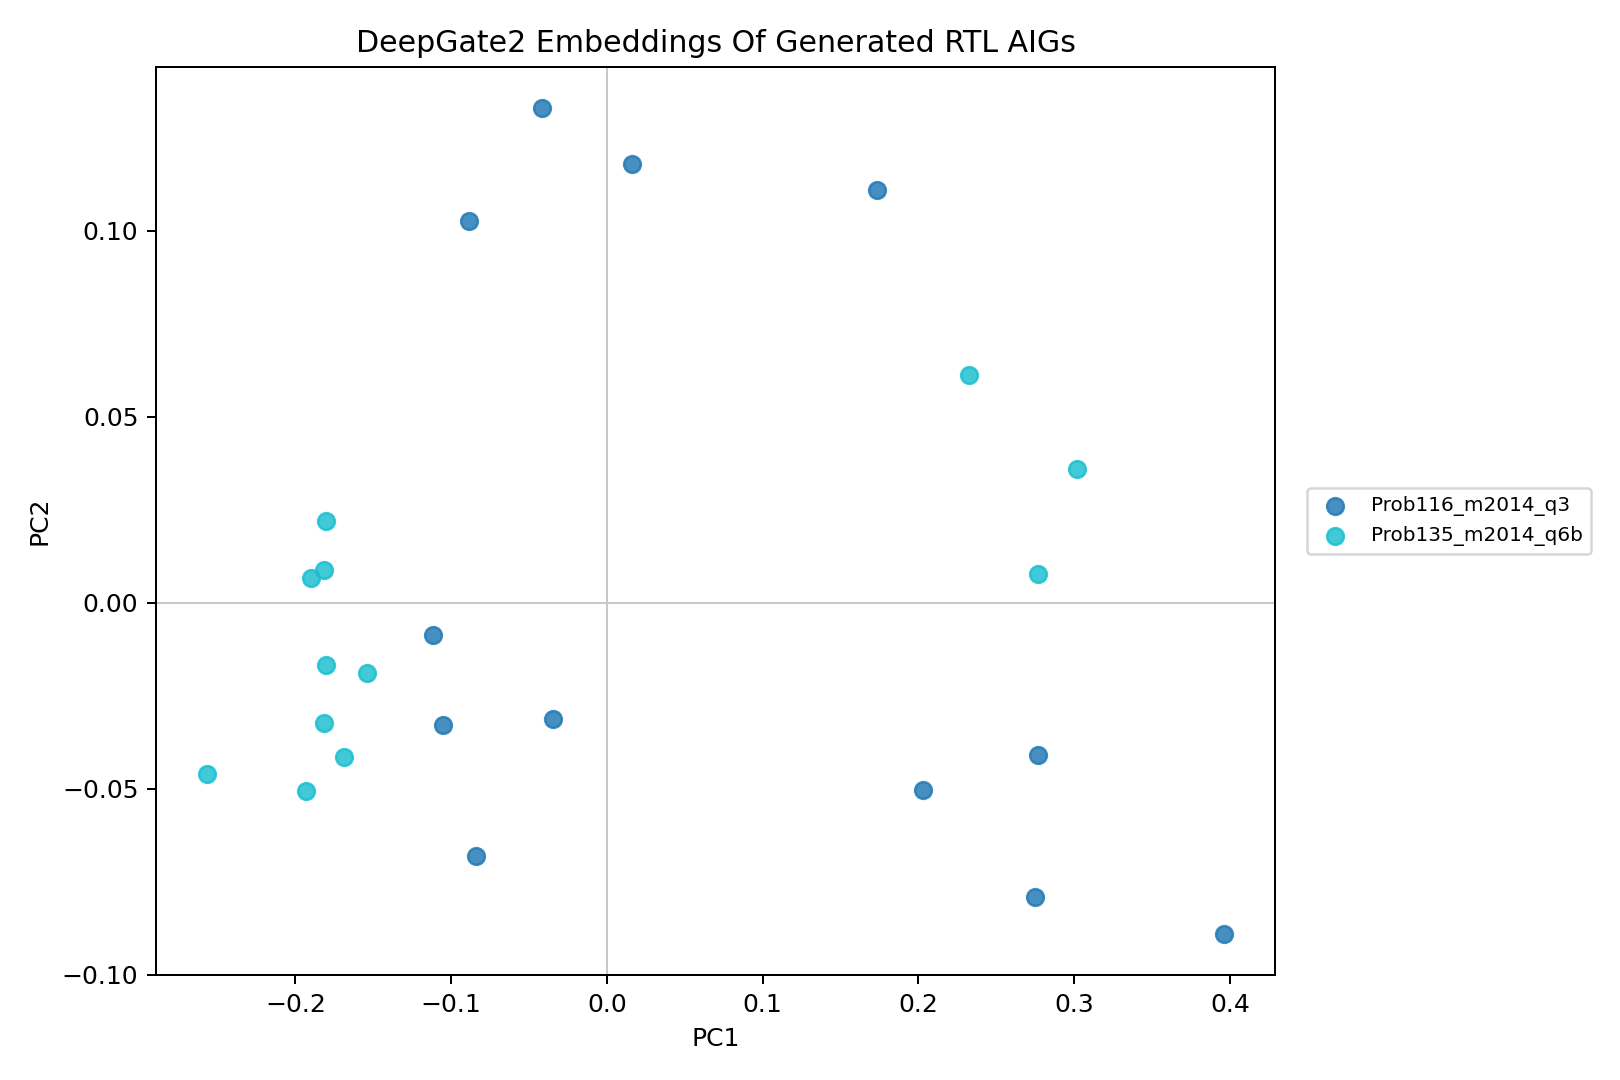
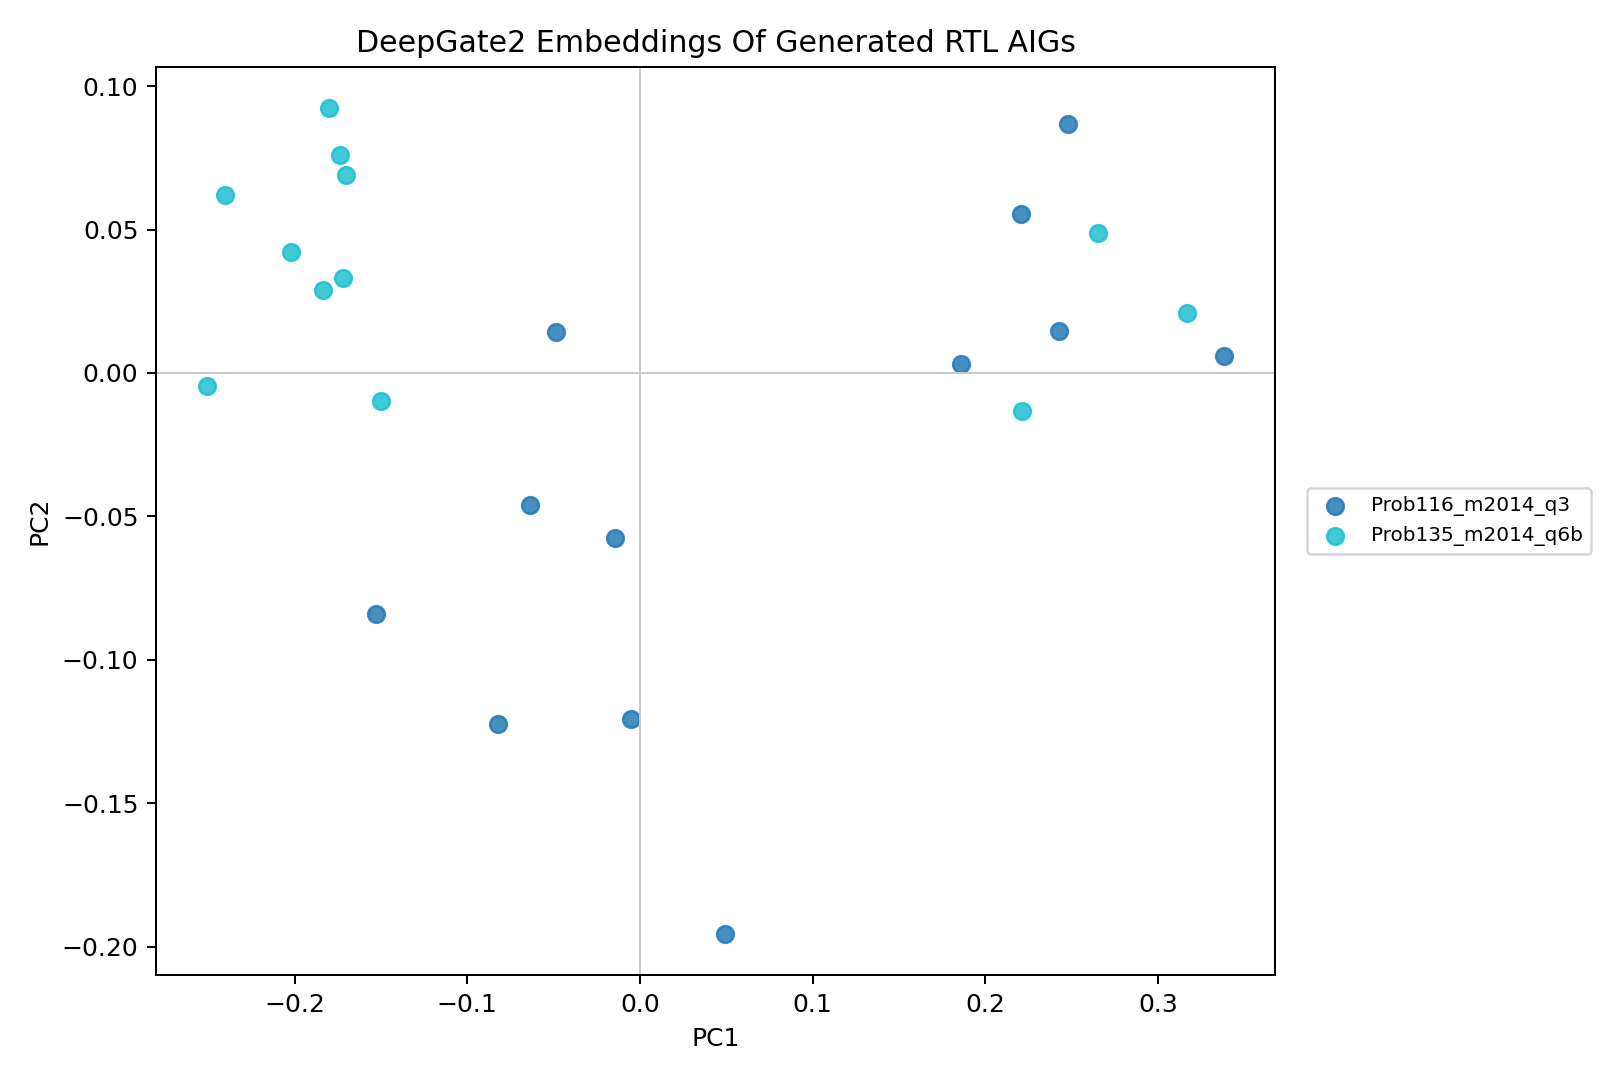
docs(qd): Record DeepGate transition block
Add the transition AIG state-abstraction probe after the bounded
latch-free DeepGate bridge improved embedding collapse but not coverage.

Record that sequential export improves, while the official DeepGate
parser still blocks in topological sorting before this lane is ready for
live RTLLM spending.

diff --git a/docs/journal_features/revamp_history/20260622_010615_KST_useful_bd_push/preliminary_planning/20260625_deepgate_generated_bridge_probe/tools/run_deepgate_generated_bridge_probe.py b/docs/journal_features/revamp_history/20260622_010615_KST_useful_bd_push/preliminary_planning/20260625_deepgate_generated_bridge_probe/tools/run_deepgate_generated_bridge_probe.py
@@ -25,6 +25,7 @@ def parse_args() -> argparse.Namespace:
     parser.add_argument("--package-dir", required=True, type=Path)
     parser.add_argument("--max-per-backend-problem", required=True, type=int)
     parser.add_argument("--max-aig-vars", required=True, type=int)
+    parser.add_argument("--state-policy", required=True, choices=["latch_free", "transition"])
     return parser.parse_args()
 
 
@@ -45,18 +46,58 @@ def collect_candidates(live_root: Path, max_per_backend_problem: int) -> list[Pa
     return paths
 
 
-def export_aig(code_path: Path, aig_path: Path) -> tuple[str, str]:
+def yosys_script(code_path: Path, aig_path: Path, state_policy: str) -> str:
+    if state_policy == "latch_free":
+        return (
+            f"read_verilog -sv {code_path}; hierarchy -auto-top; proc; "
+            f"flatten; opt; setundef -zero; techmap; opt; aigmap; "
+            f"write_aiger -ascii {aig_path}"
+        )
+    if state_policy == "transition":
+        return (
+            f"read_verilog -sv {code_path}; hierarchy -auto-top; proc; "
+            f"async2sync; clk2fflogic; flatten; opt; setundef -zero; "
+            f"techmap; opt; aigmap; write_aiger -ascii {aig_path}"
+        )
+    raise AssertionError(state_policy)
+
+
+def abstract_latches_as_transition(aig_path: Path) -> None:
+    lines = aig_path.read_text().splitlines()
+    header = lines[0].split()
+    assert header[0] == "aag"
+    variables, inputs, latches, outputs, ands = map(int, header[1:6])
+    input_lines = lines[1 : 1 + inputs]
+    latch_lines = lines[1 + inputs : 1 + inputs + latches]
+    output_lines = lines[1 + inputs + latches : 1 + inputs + latches + outputs]
+    and_lines = lines[1 + inputs + latches + outputs : 1 + inputs + latches + outputs + ands]
+    state_inputs = [line.split()[0] for line in latch_lines]
+    next_outputs = [line.split()[1] for line in latch_lines]
+    aig_path.write_text(
+        "\n".join(
+            [
+                f"aag {variables} {inputs + latches} 0 {outputs + latches} {ands}",
+                *input_lines,
+                *state_inputs,
+                *output_lines,
+                *next_outputs,
+                *and_lines,
+            ]
+        )
+        + "\n"
+    )
+
+
+def export_aig(code_path: Path, aig_path: Path, state_policy: str) -> tuple[str, str]:
     command = [
         "yosys",
         "-q",
         "-p",
-        (
-            f"read_verilog -sv {code_path}; hierarchy -auto-top; proc; "
-            f"flatten; opt; setundef -zero; techmap; opt; aigmap; "
-            f"write_aiger -ascii {aig_path}"
-        ),
+        yosys_script(code_path, aig_path, state_policy),
     ]
     result = subprocess.run(command, check=False, capture_output=True, text=True, timeout=60)
+    if result.returncode == 0 and state_policy == "transition":
+        abstract_latches_as_transition(aig_path)
     return ("exported", result.stderr[-600:]) if result.returncode == 0 else ("export_failed", result.stderr[-600:])
 
 
@@ -179,7 +220,7 @@ def main() -> None:
     for index, code_path in enumerate(collect_candidates(args.live_root, args.max_per_backend_problem)):
         row = metadata(code_path, args.live_root)
         aig_path = args.output_dir / "aigs" / f"candidate_{index:04d}.aag"
-        status, stderr_tail = export_aig(code_path, aig_path)
+        status, stderr_tail = export_aig(code_path, aig_path, args.state_policy)
         row.update({"aig_path": str(aig_path), "status": status, "stderr_tail": stderr_tail})
         if status == "exported":
             header = read_aig_header(aig_path)
@@ -201,6 +242,7 @@ def main() -> None:
         "output_dir": str(args.output_dir),
         "max_per_backend_problem": args.max_per_backend_problem,
         "max_aig_vars": args.max_aig_vars,
+        "state_policy": args.state_policy,
         "candidate_count": len(rows),
         "export_success_count": sum(row["status"] != "export_failed" for row in rows),
         "embedded_problem_count": len({row["problem"] for row in embed_ready}),

diff --git a/docs/journal_features/revamp_history/20260622_010615_KST_useful_bd_push/preliminary_planning/20260625_deepgate_transition_bridge_probe/deepgate_transition_bridge_report.md b/docs/journal_features/revamp_history/20260622_010615_KST_useful_bd_push/preliminary_planning/20260625_deepgate_transition_bridge_probe/deepgate_transition_bridge_report.md
@@ -1,0 +1,53 @@
+# DeepGate Transition Bridge Report
+
+## Answer
+
+The transition abstraction improves AIG exportability for sequential generated
+RTL, but it does not yet produce a usable DeepGate embedding corpus. The
+official DeepGate parser remains the blocker.
+
+## Method
+
+For latch-bearing AIGs, the transform rewrites:
+
+- original primary inputs plus latch state literals as new primary inputs;
+- original primary outputs plus latch next-state literals as new outputs;
+- latch count to zero;
+- existing AND definitions unchanged.
+
+This represents one-cycle transition logic. It is an honest hardware-native
+descriptor candidate because it exposes the combinational logic around state
+instead of silently dropping flip-flops.
+
+## Header Smoke
+
+| Problem | Original AAG | Transition AAG | Read |
+| --- | --- | --- | --- |
+| `Prob015_multi_pipe_8bit` | `aag 1255 19 69 17 1167` | `aag 1255 88 0 86 1167` | Export fixed, still too large. |
+| `Prob024_fsm` | `aag 79 3 9 1 67` | `aag 79 12 0 10 67` | Bounded candidate. |
+| `Prob041_traffic_light` | `aag 542 3 73 11 466` | `aag 542 76 0 84 466` | Export fixed, parser slow at medium size. |
+| `Prob049_signal_generator` | `aag 163 2 13 5 148` | `aag 163 15 0 18 148` | Bounded candidate. |
+| `Prob153_gshare` | `aag 10479 27 645 8 9807` | `aag 10479 672 0 653 9807` | Too large. |
+
+## Run Outcome
+
+Three transition runs were attempted:
+
+1. `--max-aig-vars 700 --max-per-backend-problem 3`;
+2. `--max-aig-vars 300 --max-per-backend-problem 3`;
+3. `--max-aig-vars 200 --max-per-backend-problem 1`.
+
+All were manually interrupted after the official DeepGate parser entered its
+topological-sort path for generated transition AIGs. The bottleneck is not the
+pretrained model load and not Yosys export; it is parser/order computation.
+
+## Decision
+
+Do not promote transition DeepGate to a live QD arm. The next valid DeepGate
+bridge should be one of:
+
+- cone-level extraction around state and output signals;
+- a faster AIG-to-DeepGate graph converter that bypasses the current parser
+  bottleneck;
+- a compact transition summary that compares DeepGate embeddings against
+  simple AIG statistics before live spending.

diff --git a/docs/journal_features/revamp_history/20260622_010615_KST_useful_bd_push/preliminary_planning/20260625_pretrained_encoder_bridge_validation/encoder_bridge_validation_report.md b/docs/journal_features/revamp_history/20260622_010615_KST_useful_bd_push/preliminary_planning/20260625_pretrained_encoder_bridge_validation/encoder_bridge_validation_report.md
@@ -33,7 +33,7 @@ not answer the pretrained-encoder question.
 | Candidate | Status | Evidence | Decision |
 | --- | --- | --- | --- |
 | Qwen3 canonical RTL | Live-screened, not promoted | Current model smoke passes on CUDA with `4x1024` nonconstant toy RTL embeddings. The generated-candidate probe produced `540 x 1024` embeddings over `424` unique canonical RTL hashes. The matched `8x5` screen preserved coverage but lost mean HV: `0.1108` versus classic `0.1406`. | Do not promote exact `qwen_canonical_rtl_pca3` as-is. |
-| DeepGate / DeepGate2 | Model valid, bridge partially unblocked | Official python-deepgate pretrained path works on shipped AIG examples. The new generated bridge probe embeds `24` bounded AIG rows with pairwise cosine mean `0.9315`, all four backends represented, and `2/8` problems covered. | Fix sequential and large-AIG coverage before live spend. |
+| DeepGate / DeepGate2 | Model valid, bridge partially unblocked | Official python-deepgate pretrained path works on shipped AIG examples. The generated bridge probe embeds `24` bounded AIG rows with pairwise cosine mean `0.9318`, all four backends represented, and `2/8` problems covered. The transition smoke improves sequential AIG export but blocks in parser topological sorting. | Fix sequential cone extraction or parser scalability before live spend. |
 | MasterRTL pretrained heads | Model artifacts valid, generated leaves blocked | XGBoost/RF artifacts load in the isolated env. T77 generated-candidate Area-head leaves collapsed to one prediction and one leaf row. | Do not use Area leaves as a BD. Revisit RF/timing only after feature parity. |
 | AURORA-style learned BD | Not pretrained | Raw implementation features had `+1.06%` replay HV, but compressed AURORA/PCA/RFF bottlenecks lost. | Use only as a custom learned feature lane. |
 | T36 bounded front graph | Encoder-like replay candidate | T36 replay had `+4.04%` HV over lexical and front-hit recovery, but exact T58 live conversion failed. | Redesign live successor; do not rerun exact T58. |

diff --git a/docs/journal_features/revamp_history/20260622_010615_KST_useful_bd_push/useful_bd_push_implementation_history.md b/docs/journal_features/revamp_history/20260622_010615_KST_useful_bd_push/useful_bd_push_implementation_history.md
@@ -4856,7 +4856,7 @@ Placeholders are acceptable in the scaffold commit, but not at goal completion.
 - Sampled `96` valid-PPA generated candidate directories, exported `36` AIGs,
   skipped `12` oversized AIGs, and embedded `24` bounded latch-free AIGs.
 - The generated embeddings were no longer trivially collapsed:
-  pairwise cosine mean `0.9315`, min `0.7700`, max `0.9932`.
+  pairwise cosine mean `0.9318`, min `0.8124`, max `0.9904`.
 - The embedded rows covered all four screened backends but only two problems:
   `Prob116_m2014_q3` and `Prob135_m2014_q6b`.
 - Visual inspection of `figures/deepgate_embedding_pca.png` confirmed that the
@@ -4865,3 +4865,21 @@ Placeholders are acceptable in the scaffold commit, but not at goal completion.
 - Decision: DeepGate is partially unblocked as a pretrained encoder bridge,
   but it is not live-spend-ready. Fix sequential and large-AIG coverage before
   adding a live QD arm.
+
+## 2026-06-25T18:45:00Z - DeepGate Transition Bridge Escalation
+
+- Created preliminary planning package:
+  `preliminary_planning/20260625_deepgate_transition_bridge_probe/`.
+- Added explicit `--state-policy` support to the DeepGate bridge probe:
+  `latch_free` preserves the previous policy, while `transition` uses
+  `clk2fflogic` and rewrites latch state as primary inputs plus next-state
+  outputs.
+- Header smoke showed improved sequential export coverage:
+  `Prob024_fsm` became `aag 79 12 0 10 67`, and
+  `Prob049_signal_generator` became `aag 163 15 0 18 148`.
+- Three transition embedding runs were attempted at caps of `700`, `300`, and
+  `200` variables. Each was manually interrupted after the official DeepGate
+  parser remained in `return_order_info` / `top_sort`.
+- Decision: full-design transition abstraction is methodologically plausible
+  but not spend-ready. The next DeepGate bridge needs cone-level extraction or
+  a faster AIG-to-DeepGate graph converter before any live QD arm.

diff --git a/docs/journal_features/revamp_history/20260622_010615_KST_useful_bd_push/preliminary_planning/README.md b/docs/journal_features/revamp_history/20260622_010615_KST_useful_bd_push/preliminary_planning/README.md
@@ -11,6 +11,7 @@ configurations before spending full RTLLM budget.
 | `20260625_pretrained_encoder_bridge_validation/` | Validate whether pretrained and encoder-like lanes are real enough to spend live RTLLM budget. | Active; Qwen3 is the next live-hook candidate |
 | `20260625_qwen_live_screen_probe/` | Probe Qwen3 canonical-RTL embeddings and bridge them into a live QD descriptor hook. | Probe, smoke, and matched screen complete; not promoted as-is |
 | `20260625_deepgate_generated_bridge_probe/` | Re-test official DeepGate2 embeddings on generated RTL-derived AIGs after Qwen lost the live screen. | Partially unblocked; embeddings are nonconstant on 24 rows, but only 2/8 problems cover |
+| `20260625_deepgate_transition_bridge_probe/` | Test state-as-input transition AIG abstraction for sequential DeepGate coverage. | Export coverage improves, but official parser remains too slow |
 
 ## Current Rule
 
@@ -31,5 +32,10 @@ Its nearest-neighbor graph is still almost entirely same-problem. The matched
 
 The DeepGate generated bridge probe now shows a stronger diagnostic signal than
 the old three-sample collapsed probe: `24` generated rows embed with pairwise
-cosine mean `0.9315`. It is still not spend-ready because the bounded
+cosine mean `0.9318`. It is still not spend-ready because the bounded
 latch-free AIG policy covers only `2/8` screening problems.
+
+Transition abstraction can rewrite sequential AIGs into latch-free one-cycle
+transition logic, but full-design transition AIGs still hit the official
+DeepGate parser's topological-sort bottleneck. The next DeepGate escalation
+should use cone extraction or a faster graph converter.

diff --git a/docs/journal_features/revamp_history/20260622_010615_KST_useful_bd_push/preliminary_planning/20260625_deepgate_generated_bridge_probe/deepgate_generated_bridge_report.md b/docs/journal_features/revamp_history/20260622_010615_KST_useful_bd_push/preliminary_planning/20260625_deepgate_generated_bridge_probe/deepgate_generated_bridge_report.md
@@ -6,8 +6,8 @@ The DeepGate lane is not ready for the final RTLLM comparison, but it should
 not be discarded. This probe fixed the most severe old symptom: the previous
 generated-candidate run produced only three embeddings with mean pairwise
 cosine near `0.9999`. The new official DeepGate2 bridge produced `24`
-generated-candidate embeddings with mean pairwise cosine `0.9315` and minimum
-cosine `0.7700`.
+generated-candidate embeddings with mean pairwise cosine `0.9318` and minimum
+cosine `0.8124`.
 
 That is enough to say the pretrained model can produce nontrivial signals on
 some generated RTL-derived AIGs. It is not enough to call DeepGate spend-ready,
@@ -86,6 +86,11 @@ pre-register one of these bridge fixes:
    `Prob045_alu`-scale designs.
 3. Compare pooled DeepGate embeddings against simple AIG statistics on the
    same generated rows to confirm the pretrained model adds signal beyond size.
+
+The follow-up transition-abstraction smoke improved sequential AIG export
+headers but still blocked in the official parser's topological-sort path. That
+reinforces cone extraction or parser replacement as the next DeepGate bridge
+step.
 
 Until one of those passes on at least most of the eight screening problems,
 DeepGate remains a bridge-required lane rather than a final RTLLM arm.

diff --git a/docs/journal_features/revamp_history/20260622_010615_KST_useful_bd_push/preliminary_planning/20260625_deepgate_transition_bridge_probe/commands/run_deepgate_transition_bridge_probe.md b/docs/journal_features/revamp_history/20260622_010615_KST_useful_bd_push/preliminary_planning/20260625_deepgate_transition_bridge_probe/commands/run_deepgate_transition_bridge_probe.md
@@ -1,0 +1,25 @@
+# DeepGate Transition Bridge Commands
+
+Run from `/workspace`.
+
+## Header Smoke
+
+The header smoke used Yosys with `clk2fflogic`, then converted latch lines into
+state inputs and next-state outputs.
+
+## Full Probe Attempts
+
+```bash
+/workspace/exp/diversity_check/encoder_envs/deepgate3_probe/bin/python \
+  docs/journal_features/revamp_history/20260622_010615_KST_useful_bd_push/preliminary_planning/20260625_deepgate_generated_bridge_probe/tools/run_deepgate_generated_bridge_probe.py \
+  --live-root exp/useful_bd_push/prelim_encoder_config_screen_20260625_134902_UTC/live \
+  --output-dir exp/useful_bd_push/deepgate_transition_bridge_probe_20260625_183300_UTC \
+  --package-dir docs/journal_features/revamp_history/20260622_010615_KST_useful_bd_push/preliminary_planning/20260625_deepgate_transition_bridge_probe \
+  --max-per-backend-problem 3 \
+  --max-aig-vars 700 \
+  --state-policy transition
+```
+
+The `700`-variable run was interrupted after the parser remained in
+topological sorting. The same happened with `300` variables and then with
+`200` variables plus one candidate per backend/problem.

diff --git a/docs/journal_features/revamp_history/20260622_010615_KST_useful_bd_push/preliminary_planning/20260625_deepgate_transition_bridge_probe/README.md b/docs/journal_features/revamp_history/20260622_010615_KST_useful_bd_push/preliminary_planning/20260625_deepgate_transition_bridge_probe/README.md
@@ -1,0 +1,26 @@
+# DeepGate Transition Bridge Probe
+
+## Verdict
+
+Transition abstraction is a plausible DeepGate bridge fix, but the official
+`python-deepgate` parser is too slow on the generated transition AIGs we need.
+Do not spend live RTLLM budget on this lane yet.
+
+The transform converts latch-bearing AIGs into combinational transition logic
+by treating register state as extra inputs and next-state functions as extra
+outputs. It improves export coverage for sequential designs, but the current
+full-design transition AIGs still hit the parser topological-sort bottleneck.
+
+## Contents
+
+| Path | Purpose |
+| --- | --- |
+| `deepgate_transition_bridge_report.md` | Main result and decision. |
+| `commands/run_deepgate_transition_bridge_probe.md` | Commands attempted. |
+| `tables/transition_header_smoke.csv` | Header-level evidence for the state abstraction. |
+| `logs/transition_smoke_log.md` | Manual run log and interruption rationale. |
+
+## Decision
+
+The next DeepGate attempt should not be another full-design transition run.
+Use cone-level extraction or replace the parser/order computation first.

diff --git a/docs/journal_features/revamp_history/20260622_010615_KST_useful_bd_push/preliminary_planning/20260625_encoder_config_screening/current_encoder_assessment.md b/docs/journal_features/revamp_history/20260622_010615_KST_useful_bd_push/preliminary_planning/20260625_encoder_config_screening/current_encoder_assessment.md
@@ -59,11 +59,13 @@ provides the strongest true-pretrained replay signal.
 DeepGate should not be treated as invalid: the official python-deepgate
 pretrained path works on shipped examples. The newer generated bridge probe
 improves the old collapsed result: it embeds `24` bounded generated AIG rows
-with pairwise cosine mean `0.9315` and all four screen backends represented.
+with pairwise cosine mean `0.9318` and all four screen backends represented.
 The remaining blocker is coverage, because only `Prob116_m2014_q3` and
 `Prob135_m2014_q6b` embed under the current latch-free and `400`-variable
-policy. MasterRTL pretrained artifacts also load, but T77 blocks the
-generated-candidate Area-head leaf BD.
+policy. A transition-abstraction smoke improves sequential AIG export coverage
+but still blocks in the official parser's topological sort. MasterRTL
+pretrained artifacts also load, but T77 blocks the generated-candidate
+Area-head leaf BD.
 
 ## Qwen Generated-Candidate Probe
 

diff --git a/docs/journal_features/revamp_history/20260622_010615_KST_useful_bd_push/useful_bd_push_implementation_todo.md b/docs/journal_features/revamp_history/20260622_010615_KST_useful_bd_push/useful_bd_push_implementation_todo.md
@@ -114,6 +114,9 @@ Adversarial rubric: `useful_bd_push_adversarial_prompt.md`.
       Outcome: official DeepGate2 embeddings are noncollapsed on `24`
       generated AIG rows, but only `2/8` screening problems cover under the
       current latch-free bounded bridge; do not promote yet.
+- [x] Escalate DeepGate with transition AIG state abstraction. Outcome:
+      sequential export coverage improves, but full-design transition AIGs
+      still block in the official parser's topological-sort path.
 - [x] Freeze a reference-complete, medium-validity budget-ablation subset with
       visible PPA-front variance before reading any budget-shape outcome.
 - [x] Add direct PPA-front visualization audit for completed T24/T25/T26 live

diff --git a/docs/journal_features/revamp_history/20260622_010615_KST_useful_bd_push/preliminary_planning/20260625_deepgate_transition_bridge_probe/logs/transition_smoke_log.md b/docs/journal_features/revamp_history/20260622_010615_KST_useful_bd_push/preliminary_planning/20260625_deepgate_transition_bridge_probe/logs/transition_smoke_log.md
@@ -1,0 +1,13 @@
+# Transition Smoke Log
+
+## 2026-06-25
+
+- Tested `clk2fflogic` on representative sequential screen candidates.
+- Confirmed that latch-bearing AIGs can be rewritten as latch-free transition
+  AIGs by exposing state as inputs and next-state functions as outputs.
+- Tried full transition embedding probes at caps of `700`, `300`, and `200`
+  AIG variables.
+- Interrupted each run after the official DeepGate parser remained in
+  `return_order_info` / `top_sort`.
+- Decision: transition abstraction is methodologically plausible, but the
+  current full-design parser path is not usable enough for live QD spending.

diff --git a/docs/journal_features/revamp_history/20260622_010615_KST_useful_bd_push/preliminary_planning/20260625_deepgate_generated_bridge_probe/README.md b/docs/journal_features/revamp_history/20260622_010615_KST_useful_bd_push/preliminary_planning/20260625_deepgate_generated_bridge_probe/README.md
@@ -20,10 +20,10 @@ bounded bridge only covers two of the eight screening problems.
 | Embedded bounded AIGs | 24 |
 | Embedded problems | 2 |
 | Embedded backends | 4 |
-| Pairwise cosine mean | 0.9315 |
-| Pairwise cosine min | 0.7700 |
-| Same-problem nearest ratio | 0.6667 |
-| Same-backend nearest ratio | 0.0417 |
+| Pairwise cosine mean | 0.9318 |
+| Pairwise cosine min | 0.8124 |
+| Same-problem nearest ratio | 0.5417 |
+| Same-backend nearest ratio | 0.2083 |
 
 ## Decision
 
